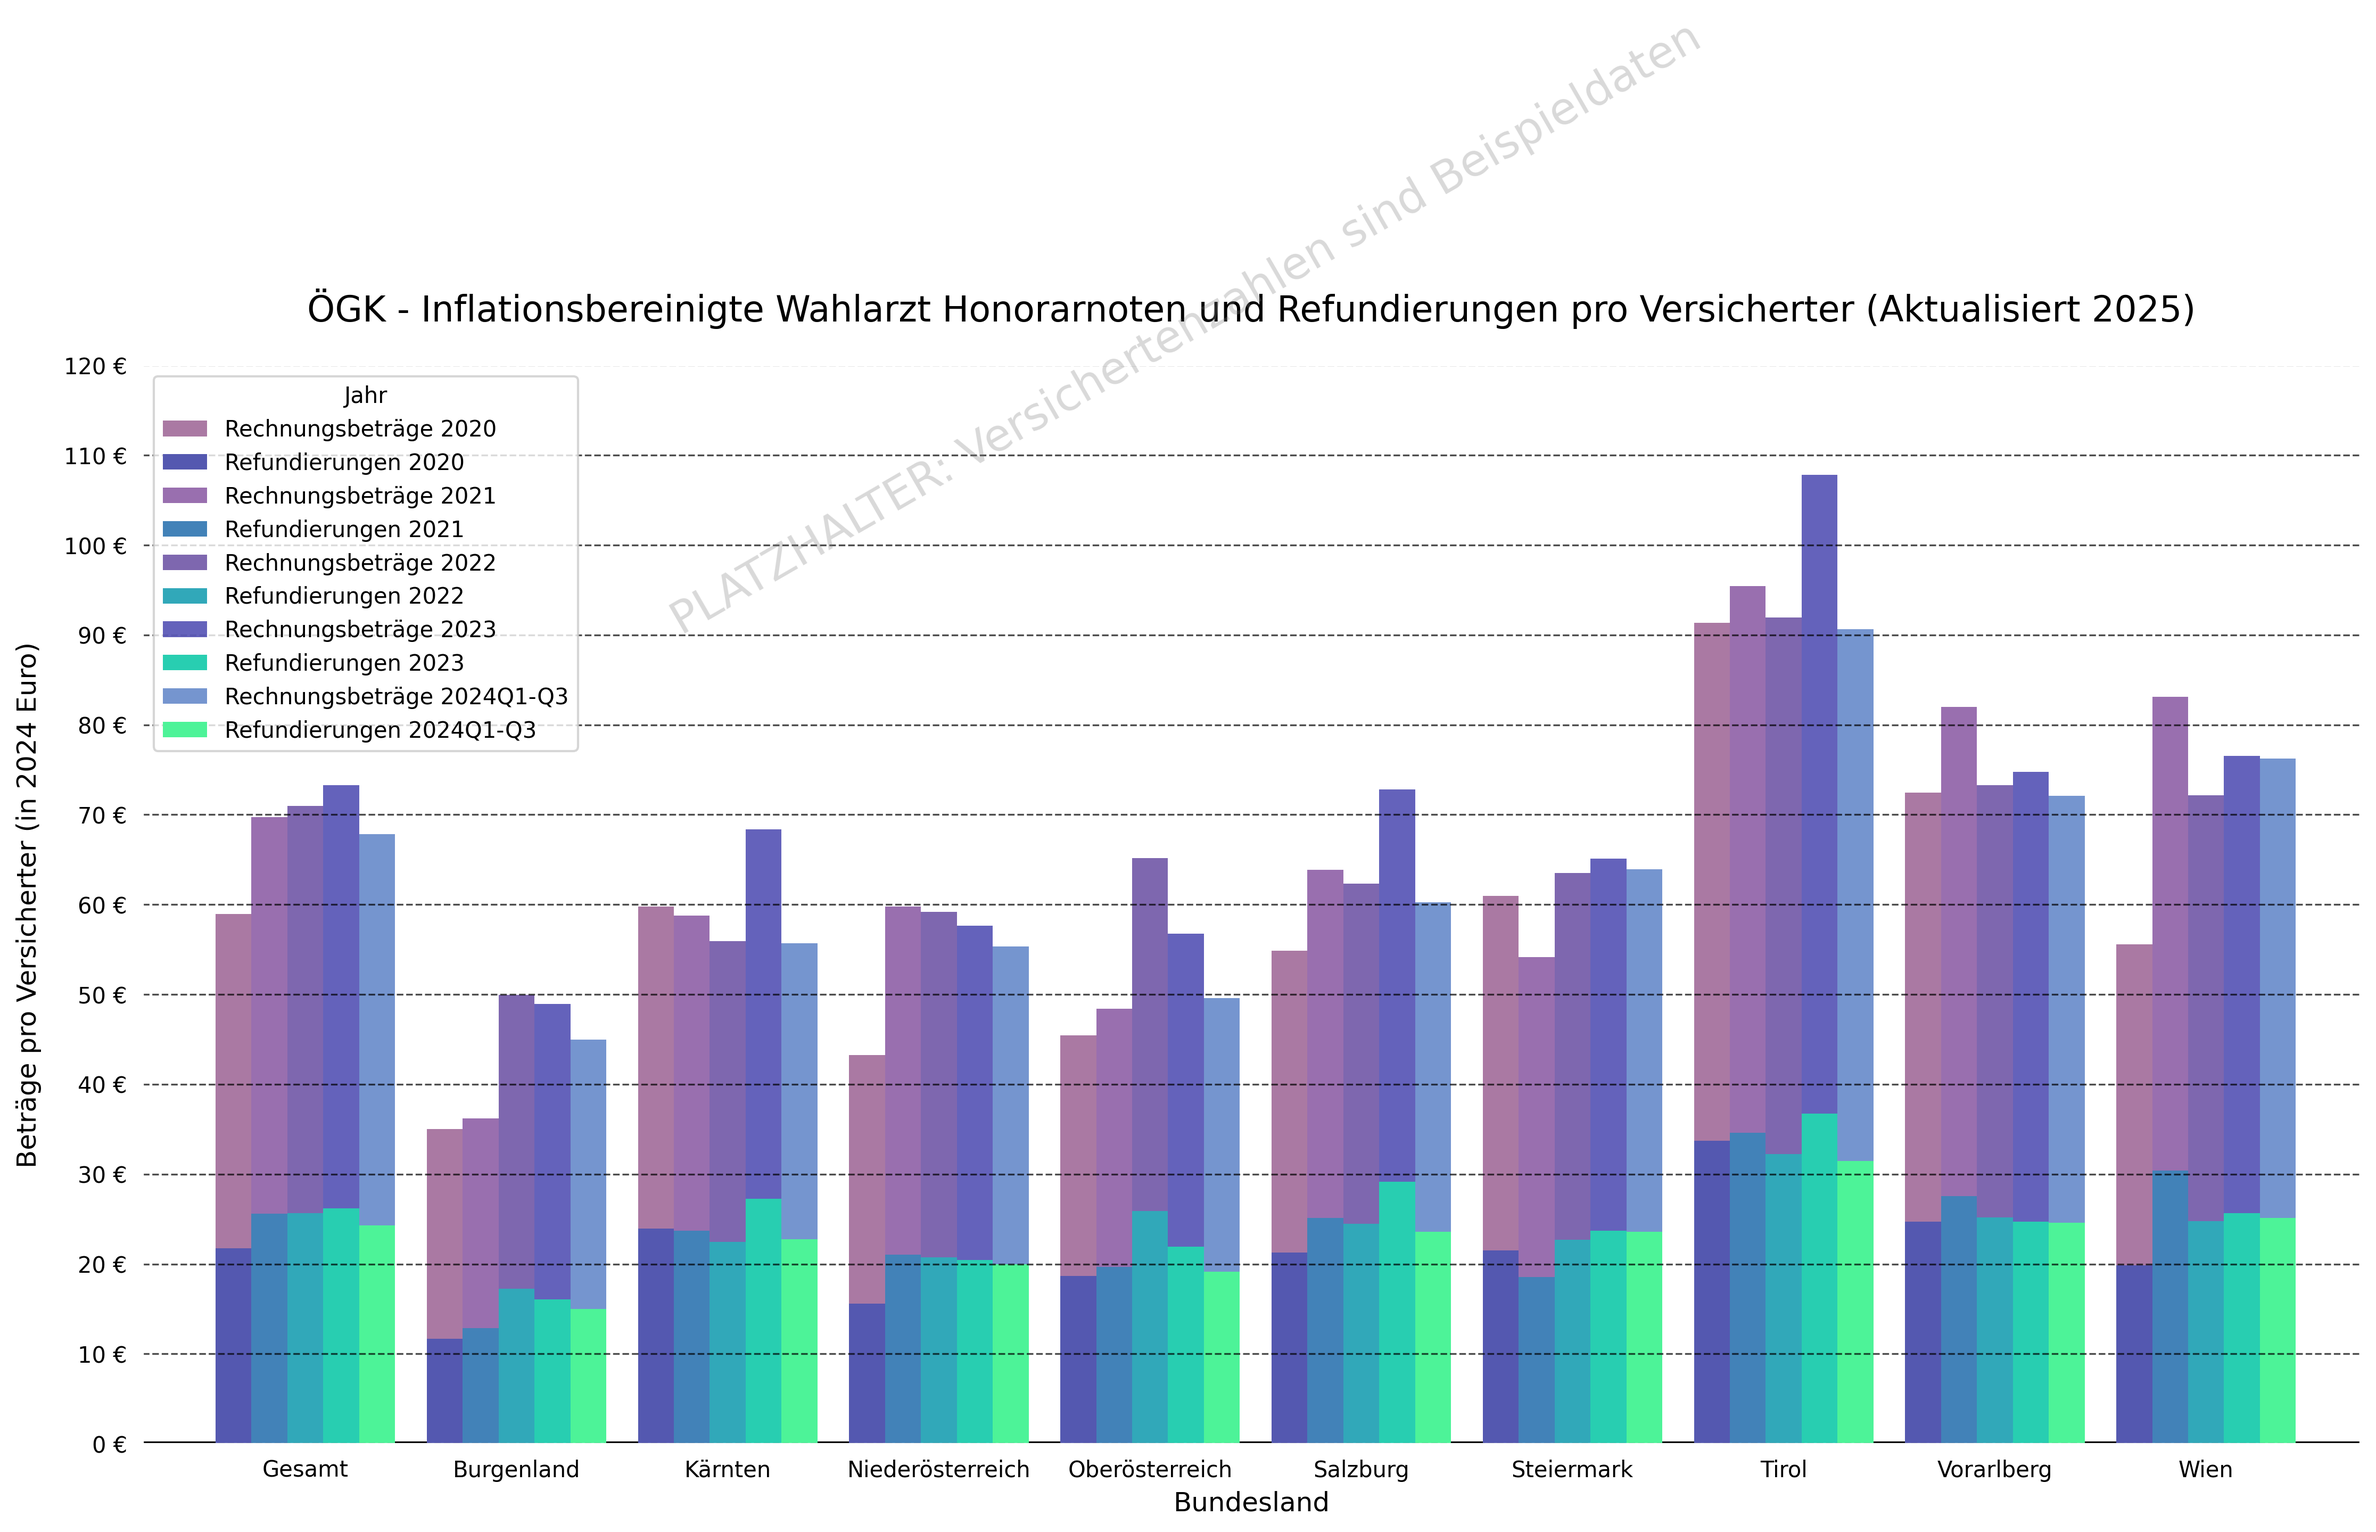
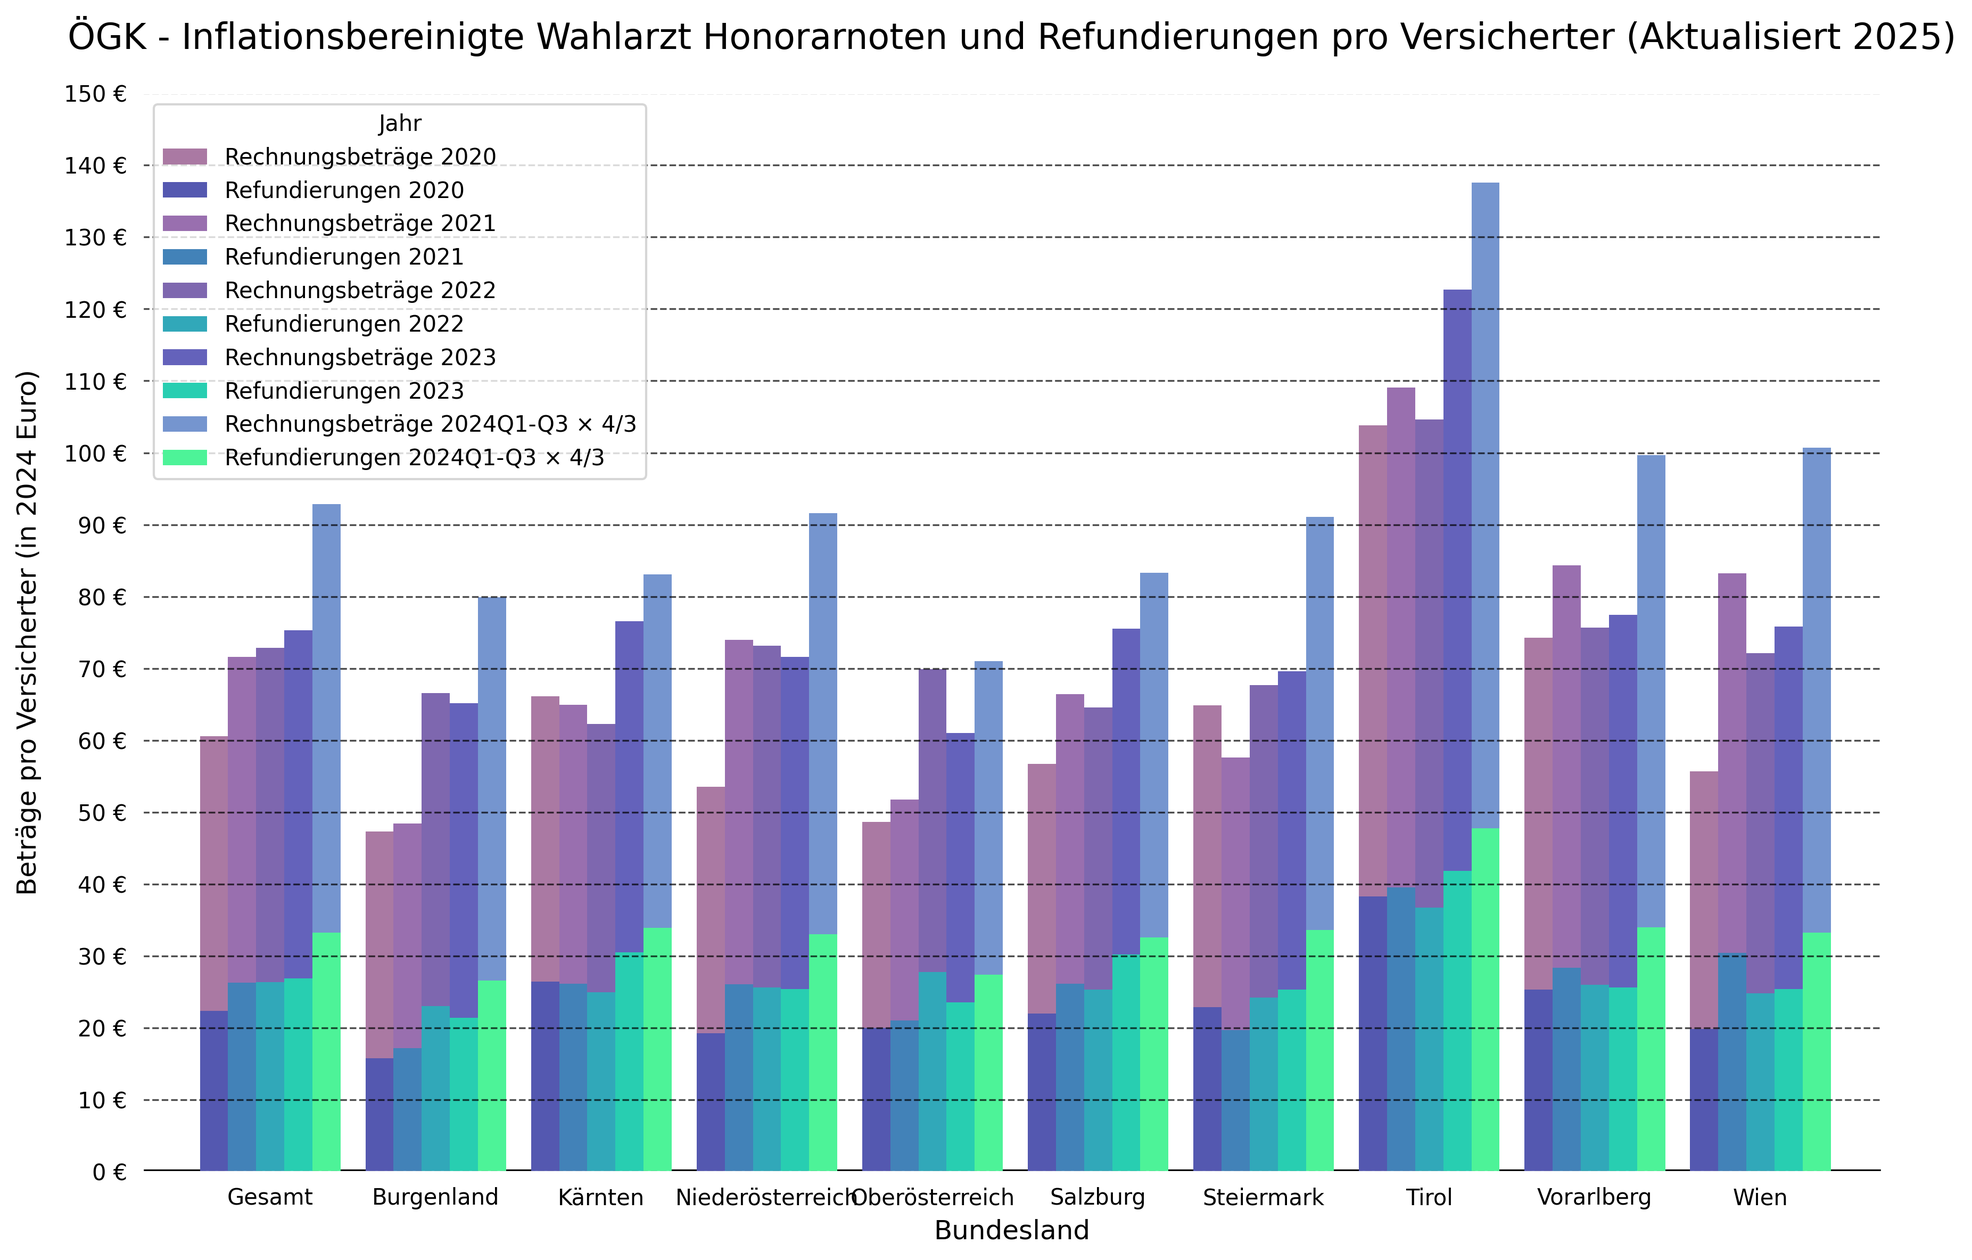
catchup: got all data for weightede betraege plots

diff --git a/visualize/plot_oegk_betraege_weighted.py b/visualize/plot_oegk_betraege_weighted.py
@@ -20,32 +20,92 @@ prettify_LST = {
     "Gesamt": "Gesamt",
 }
 
-# Placeholder VPI data (to be replaced with actual data)
+# VPI data (from /data/extras/VPI/VPI...ods). Average per time period
 VPI_DATA = {
-    "2019": 106.7,  # Base year
+    "2019": 106.7,
     "2020": 108.2,
     "2021": 111.2,
     "2022": 120.7,
     "2023": 130.1,
-    "2024Q1-Q3": 133.7,
+    "2024Q1-Q3": 133.7, # Average of Q1-Q3 2024
     "2024": 134.0,
     "2025": 136.8,
 }
 
-# Placeholder insured population data (to be replaced with actual data)
+# Insured population data (from /data/extras/Handbuch/Tabellen_Statistisches_Handbuch_2024/Kapitel 2_24.xlsx)
+# Historical data 2019-2023 from Tabelle 2.02
+# Future values calculated with lambda functions
 INSURED_POPULATION = {
-    "ÖGK-W": 1800000,
-    "ÖGK-N": 1600000,
-    "ÖGK-B": 300000,
-    "ÖGK-O": 1400000,
-    "ÖGK-S": 500000,
-    "ÖGK-K": 500000,
-    "ÖGK-ST": 1100000,
-    "ÖGK-T": 700000,
-    "ÖGK-V": 350000,
-    "Gesamt": 7750000,
+    "2019": {
+        "ÖGK-W": 1734250,
+        "ÖGK-N": 1235467,
+        "ÖGK-B": 213310,
+        "ÖGK-O": 1259403,
+        "ÖGK-ST": 975072,
+        "ÖGK-K": 436208,
+        "ÖGK-S": 468270,
+        "ÖGK-T": 598526,
+        "ÖGK-V": 330122,
+        "Gesamt": 7250628,
+    },
+    "2020": {
+        "ÖGK-W": 1733348,
+        "ÖGK-N": 1245744,
+        "ÖGK-B": 214327,
+        "ÖGK-O": 1261102,
+        "ÖGK-ST": 997453,
+        "ÖGK-K": 435932,
+        "ÖGK-S": 466544,
+        "ÖGK-T": 594466,
+        "ÖGK-V": 329658,
+        "Gesamt": 7278574,
+    },
+    "2021": {
+        "ÖGK-W": 1743335,
+        "ÖGK-N": 1253590,
+        "ÖGK-B": 217175,
+        "ÖGK-O": 1269008,
+        "ÖGK-ST": 1002900,
+        "ÖGK-K": 438725,
+        "ÖGK-S": 466215,
+        "ÖGK-T": 593720,
+        "ÖGK-V": 329767,
+        "Gesamt": 7314435,
+    },
+    "2022": {
+        "ÖGK-W": 1771026,
+        "ÖGK-N": 1273182,
+        "ÖGK-B": 221330,
+        "ÖGK-O": 1284447,
+        "ÖGK-ST": 1015347,
+        "ÖGK-K": 441801,
+        "ÖGK-S": 474520,
+        "ÖGK-T": 604751,
+        "ÖGK-V": 333178,
+        "Gesamt": 7419582,
+    },
+    "2023": {
+        "ÖGK-W": 1802340,
+        "ÖGK-N": 1278271,
+        "ÖGK-B": 223529,
+        "ÖGK-O": 1292594,
+        "ÖGK-ST": 1020869,
+        "ÖGK-K": 443213,
+        "ÖGK-S": 478351,
+        "ÖGK-T": 610168,
+        "ÖGK-V": 335023,
+        "Gesamt": 7484358,
+    },
+    "2024": lambda: {k: int(v * 1.008) for k, v in INSURED_POPULATION["2023"].items()},  # 0.8% growth from 2023
+    "2024Q1-Q3": lambda: {k: int(v * 1.008) for k, v in INSURED_POPULATION["2023"].items()},  # same growth as we extrapolate the whole year
+    "2025": lambda: {k: int(v * 1.008) for k, v in INSURED_POPULATION["2024"]().items()},  # 0.8% growth from 2024
 }
 
+def get_population_for_year(year):
+    """Get the population data for a specific year"""
+    year_str = str(year)
+    data = INSURED_POPULATION[year_str]
+    return data() if callable(data) else data
 
 def adjust_for_inflation(value, year, base_year=2024):
     """Adjust value for inflation using VPI data"""
@@ -77,7 +137,7 @@ def create_plot(input_file, dark_mode=True, is_updated=False, plot_type="betraeg
     )
 
     # Weight by insured population
-    df["Weight"] = df["LST"].map(INSURED_POPULATION) / INSURED_POPULATION["Gesamt"]
+    df["Weight"] = df.apply(lambda row: get_population_for_year(row["Year"])[row["LST"]] / get_population_for_year(row["Year"])["Gesamt"], axis=1)
     df["Rechnungsbeträge_weighted"] = df["Rechnungsbeträge_adj"] / df["Weight"]
     df["Refundierungen_weighted"] = df["Refundierungen_adj"] / df["Weight"]
 
@@ -90,7 +150,7 @@ def create_plot(input_file, dark_mode=True, is_updated=False, plot_type="betraeg
         )
 
     # Create figure with smaller size
-    fig, ax = plt.subplots(figsize=(15, 8))
+    fig, ax = plt.subplots(figsize=(12, 8))
 
     # Set dark mode if enabled
     if dark_mode:
@@ -101,20 +161,6 @@ def create_plot(input_file, dark_mode=True, is_updated=False, plot_type="betraeg
         plt.style.use("default")
         fig.patch.set_facecolor("white")
         ax.set_facecolor("white")
-
-    # Add placeholder text
-    placeholder_text = "PLATZHALTER: Versichertenzahlen sind Beispieldaten"
-    fig.text(
-        0.5,
-        0.95,
-        placeholder_text,
-        ha="center",
-        va="center",
-        fontsize=20,
-        color="gray",
-        alpha=0.3,
-        rotation=30,
-    )
 
     # Get unique years and states
     years = sorted(df["Year"].unique())
@@ -138,6 +184,13 @@ def create_plot(input_file, dark_mode=True, is_updated=False, plot_type="betraeg
         state_data = df[df["LST"] == state]
         for j, year in enumerate(years):
             year_data = state_data[state_data["Year"] == year]
+            if year == "2024Q1-Q3":
+                # Adjust the 2024 Q1-Q3 data by multiplying by 4/3 to estimate full year
+                year_data = year_data.copy()
+                year_data["Rechnungsbeträge_weighted"] = year_data["Rechnungsbeträge_weighted"] * (4/3)
+                year_data["Refundierungen_weighted"] = year_data["Refundierungen_weighted"] * (4/3)
+                if "Personal_loss" in year_data.columns:
+                    year_data["Personal_loss"] = year_data["Personal_loss"] * (4/3)
             if not year_data.empty:
                 if plot_type == "betraege":
                     # Get the values for billing amounts plot
@@ -162,7 +215,7 @@ def create_plot(input_file, dark_mode=True, is_updated=False, plot_type="betraeg
                             bar_width,
                             color=rechnungsbetraege_color,
                             alpha=0.7,
-                            label=f"Rechnungsbeträge {year}" if i == 0 else "",
+                            label=f"Rechnungsbeträge {year if year != '2024Q1-Q3' else '2024Q1-Q3 × 4/3'}" if i == 0 else "",
                         )
                     )
                     # Plot Refundierungen with lighter shade of original color
@@ -176,7 +229,7 @@ def create_plot(input_file, dark_mode=True, is_updated=False, plot_type="betraeg
                             refundierung,
                             bar_width,
                             color=refund_color,
-                            label=f"Refundierungen {year}" if i == 0 else "",
+                            label=f"Refundierungen {year if year != '2024Q1-Q3' else '2024Q1-Q3 × 4/3'}" if i == 0 else "",
                         )
                     )
                 else:  # personal_loss
@@ -190,7 +243,7 @@ def create_plot(input_file, dark_mode=True, is_updated=False, plot_type="betraeg
                                 bar_width,
                                 color=plt.cm.viridis(0.2 + 0.6 * (j / len(years))),
                                 alpha=1,
-                                label=f"{year}" if i == 0 else "",
+                                label=f"{year if year != '2024Q1-Q3' else '2024Q1-Q3 × 4/3'}" if i == 0 else "",
                             )
                         )
 
@@ -228,23 +281,27 @@ def create_plot(input_file, dark_mode=True, is_updated=False, plot_type="betraeg
 
     # Format y-axis with thousands separator, € symbol, and 10€ steps
     def format_yticks(x, p):
-        value = int(x / INSURED_POPULATION["Gesamt"])
+        year = df["Year"].iloc[0]
+        value = int(x / get_population_for_year(year)["Gesamt"])
         return f"{value:,} €"
 
     ax.yaxis.set_major_formatter(plt.FuncFormatter(format_yticks))
 
     # Set y-axis ticks in 10€ steps
     ymin, ymax = ax.get_ylim()
+    year = df["Year"].iloc[0]
+    gesamt = get_population_for_year(year)["Gesamt"]
+    
     if plot_type == "personal_loss":
         # For personal loss, we need to handle negative values
         # Round to nearest 10 for cleaner tick marks
-        ymin_rounded = np.floor(ymin / (10 * INSURED_POPULATION["Gesamt"])) * (10 * INSURED_POPULATION["Gesamt"])
-        ymax_rounded = np.ceil(ymax / (10 * INSURED_POPULATION["Gesamt"])) * (10 * INSURED_POPULATION["Gesamt"])
-        yticks = np.arange(ymin_rounded, ymax_rounded + (10 * INSURED_POPULATION["Gesamt"]), 10 * INSURED_POPULATION["Gesamt"])
+        ymin_rounded = np.floor(ymin / (10 * gesamt)) * (10 * gesamt)
+        ymax_rounded = np.ceil(ymax / (10 * gesamt)) * (10 * gesamt)
+        yticks = np.arange(ymin_rounded, ymax_rounded + (10 * gesamt), 10 * gesamt)
     else:
         # For regular betraege plot, only positive values
-        ymax_rounded = np.ceil(ymax / (10 * INSURED_POPULATION["Gesamt"])) * (10 * INSURED_POPULATION["Gesamt"])
-        yticks = np.arange(0, ymax_rounded + (10 * INSURED_POPULATION["Gesamt"]), 10 * INSURED_POPULATION["Gesamt"])
+        ymax_rounded = np.ceil(ymax / (10 * gesamt)) * (10 * gesamt)
+        yticks = np.arange(0, ymax_rounded + (10 * gesamt), 10 * gesamt)
     ax.set_yticks(yticks)
 
     # Add grid with appropriate opacity for each mode
